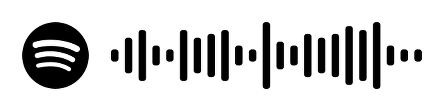
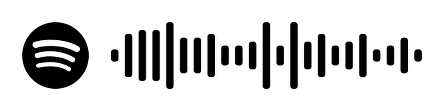
playlists now allowed

diff --git a/creator.py b/creator.py
@@ -52,6 +52,8 @@ def handleURL(url: str, params: dict[str, int] = defaultParams, saveFolder: str 
     startTime = datetime.now()
     if "album" in url:
         return createAlbumPoster(url, params, saveFolder, colors)
+    elif "playlist" in url:
+        return createPlaylistPoster(url, params, saveFolder, colors)
     else:
         return "Not a Spotify playlist or poster URL"
 
@@ -104,12 +106,40 @@ def getAlbumDetails(url: str) -> dict:
     
     # https://open.spotify.com/album/5MS3MvWHJ3lOZPLiMxzOU6?si=6GDOWf7nSnaqsDa-BbIH5Q
 
-def getTopColors() -> list[list[int]]:
+def getPlaylistDetails(url:str) -> dict:
+    playlistID = re.findall('playlist/(.*)\?', url)
+    spotify = spotipy.Spotify(client_credentials_manager=SpotifyClientCredentials())
+
+    results = spotify.playlist(playlistID[0])
+
+    totalDuration = sum([song['track']['duration_ms'] for song in results['tracks']['items']])
+
+    trackStruct : list[dict] = [
+        {
+            "href": song['track']['href'],
+            "name": song['track']['name'],
+            "id": song['track']['id'],
+            "duration": song['track']['duration_ms']
+        }
+        for song in results['tracks']['items']
+    ]
+
+    return {
+        "id": playlistID[0],
+        'name': results['name'],
+        'owner': results['owner']['display_name'],
+        'description': results['description'],
+        'length': totalDuration,
+        'coverURL': results['images'][0]['url'],
+        'tracks': trackStruct
+    }
+
+def getTopColors(sType: str = "album") -> list[list[int]]:
     
     NUM_CLUSTERS = 5
 
     # bar = Bar("Finding dominant colors ", max=4)
-    im = Image.open("album_cover.jpg")
+    im = Image.open(f"{sType}_cover.jpg")
     # bar.next()
     ar = np.asarray(im)
     shape = ar.shape
@@ -165,12 +195,12 @@ def getTopColorsAlone(url: str) -> list[list[int]]:
         # print("{0:<7}{1:<7.2f}{2:<7.2f}{3:<7.2f}{4:<7.2f}".format(i+1, sortedCodes[i][0], sortedCodes[i][1], sortedCodes[i][2], sum(sortedCodes[i])))
     return list(sortedCodes)
 
-def getAlbumCover(url: str) -> Image:
-    urllib.request.urlretrieve(url, "album_cover.jpg")
-    im = cv2.imread("album_cover.jpg")
+def getCover(url: str, sType: str = 'album') -> Image:
+    urllib.request.urlretrieve(url, f"{sType}_cover.jpg")
+    im = cv2.imread(f"{sType}_cover.jpg")
     im = cv2.resize(im, (defaultParams['coverDim'],defaultParams['coverDim']), interpolation=cv2.INTER_LANCZOS4)
-    cv2.imwrite("album_cover.jpg", im)
-    resizedCover = Image.open('album_cover.jpg')
+    cv2.imwrite(f"{sType}_cover.jpg", im)
+    resizedCover = Image.open(f"{sType}_cover.jpg")
     return resizedCover
 
 def getSpotifyCode(url: str, sType: str = 'album') -> Image:
@@ -184,11 +214,11 @@ def getSpotifyCode(url: str, sType: str = 'album') -> Image:
     code = Image.open('spotify_code.png')
     return code
 
-def getAlbumLength(trackStruct: list[dict]) -> str:
+def getLength(trackStruct: list[dict]) -> str:
     totalMS = sum(song['duration'] for song in trackStruct)
     # print("Total Album MS: ", totalMS)
     delta = timedelta(milliseconds=totalMS)
-    min = ((delta.seconds // 60)-60) if (delta.seconds // 60) >= 60 else (delta.seconds // 60)
+    min = (delta.seconds // 60)-((delta.seconds // 3600)*60) if (delta.seconds // 60) >= 60 else (delta.seconds // 60)
     sec = delta.seconds % 60
     hr = delta.seconds // 3600
     return f"{hr:02d}.{min:02d}.{sec:02d}"
@@ -201,7 +231,7 @@ def writeText(draw: ImageDraw, details: dict):
         draw.text((83,1858), f"LABEL: {details['label'].upper()}", (0,0,0), font=boldText, anchor='lt')
     else:
         draw.text((83,1858), f"LABEL: {details['label'].upper()[:defaultParams['maxLabelLength']]+'...'}", (0,0,0), font=boldText, anchor='lt')
-    draw.text((83,1894), f"ALBUM LENGTH: {getAlbumLength(details['tracks'])}", (0,0,0), font=boldText, anchor='lt')
+    draw.text((83,1894), f"ALBUM LENGTH: {getLength(details['tracks'])}", (0,0,0), font=boldText, anchor='lt')
 
     # Release Date Text
     draw.text((1250, 1858), f"RELEASED ON", (0,0,0), font=boldText, anchor='rt')
@@ -248,6 +278,93 @@ def writeText(draw: ImageDraw, details: dict):
 
         for j in range(len(parts)):
             draw.text((1250, 1435 + (j*82)), f"{parts[j]}", (0,0,0), font=titleFont, anchor='rt')
+
+def writePlaylistText(draw: ImageDraw, details: dict):
+    boldText = ImageFont.truetype('SourceSans3-ExtraBold.ttf', defaultParams['cornerTextSize'])
+    artistFont = ImageFont.truetype("AtkinsonHyperlegible-Bold.ttf", defaultParams['artistSize'])
+    titleFont = ImageFont.truetype("AtkinsonHyperlegible-Bold.ttf", defaultParams['titleSize'])
+    # if len(details['label'].upper()) <= defaultParams['maxLabelLength']:
+    #     draw.text((83,1858), f"LABEL: {details['label'].upper()}", (0,0,0), font=boldText, anchor='lt')
+    # else:
+    #     draw.text((83,1858), f"LABEL: {details['label'].upper()[:defaultParams['maxLabelLength']]+'...'}", (0,0,0), font=boldText, anchor='lt')
+    draw.text((83,1858), f"PLAYLIST LENGTH: {getLength(details['tracks'])}", (0,0,0), font=boldText, anchor='lt')
+
+    # Writing description
+
+    if len(details['description']) <= 40:
+        draw.text((1250, 1858), f"{details['description'].upper()}", (0,0,0), font=ImageFont.truetype("AtkinsonHyperlegible-Bold.ttf", 20), anchor='rt')
+    else:
+        name = details['description'].upper()
+        words : list = name.split(' ')
+        parts : list[str] = []
+        
+        build = ""
+        while len(words) > 0:
+            # print("considering ", words[0], "-->", build)
+            if len(build + " " + words[0]) <= 40:
+                if len(build) == 0:
+                    build += words[0]
+                else:
+                    build += " " + words[0]
+                words.pop(0)
+            else:
+                if build == "":
+                    parts.append(words[0])
+                    words.pop(0)
+                else:
+                    parts.append(build)
+                    build = ""
+        parts.append(build)
+        # print(parts)
+
+        for j in range(len(parts)):
+            draw.text((1250, 1858 + (j*24)), f"{parts[j]}", (0,0,0), font=ImageFont.truetype("AtkinsonHyperlegible-Bold.ttf", 20), anchor='rt')
+
+    # draw.text((1250, 1858), details['description'], (0,0,0), font=ImageFont.truetype("AtkinsonHyperlegible-Bold.ttf", 18), anchor='rt')
+    # draw.text((1250,1894), f"{details['releaseDate'].upper()}", (0,0,0), font=boldText, anchor='rt')
+
+    # Artist Font
+    if len(details['owner'].upper()) <= defaultParams['maxArtistsLength']:
+        draw.text((1250, 1370), f"{details['owner'].upper()}", (0,0,0), font=artistFont, anchor='rt')
+    else:
+        draw.text((1250, 1370), f"{details['owner'].upper()[:defaultParams['maxArtistsLength']] + '...'}", (0,0,0), font=artistFont, anchor='rt')
+
+    if defaultParams['includeFullTitle'] == 0:
+        try:
+            pIndex = details['name'].index("(")
+            details['name'] = details['name'][:pIndex]
+        except:
+            pass
+
+    if len(details['name']) <= 10:
+        draw.text((1250, 1435), f"{details['name'].upper()}", (0,0,0), font=titleFont, anchor='rt')
+    else:
+        name = details['name'].upper()
+        words : list = name.split(' ')
+        parts : list[str] = []
+        
+        build = ""
+        while len(words) > 0:
+            # print("considering ", words[0], "-->", build)
+            if len(build + " " + words[0]) <= defaultParams['maxTitleLength']+(len(parts)):
+                if len(build) == 0:
+                    build += words[0]
+                else:
+                    build += " " + words[0]
+                words.pop(0)
+            else:
+                if build == "":
+                    parts.append(words[0])
+                    words.pop(0)
+                else:
+                    parts.append(build)
+                    build = ""
+        parts.append(build)
+        # print(parts)
+
+        for j in range(len(parts)):
+            draw.text((1250, 1435 + (j*82)), f"{parts[j]}", (0,0,0), font=titleFont, anchor='rt')
+    
 
 def writeTracks(draw: ImageDraw, details: dict):
     trackFont = ImageFont.truetype("AtkinsonHyperlegible-Bold.ttf", defaultParams['trackSize'])
@@ -332,7 +449,7 @@ def createAlbumPoster(url: str, params: dict[str, int] = defaultParams, saveFold
     bar.next()
     # Getting album cover (640x640)
     bar.setStatus("Getting album cover ... ")
-    albumCover = getAlbumCover(details['coverURL'])
+    albumCover = getCover(details['coverURL'], 'album')
     canvas.paste(albumCover, (83,83))
     bar.next()
     # getting spotify code
@@ -396,3 +513,82 @@ def createAlbumPoster(url: str, params: dict[str, int] = defaultParams, saveFold
     bar.next()
     bar.finish()
     return returning
+
+def createPlaylistPoster(url: str, params: dict[str, int] = defaultParams, saveFolder: str = "", colors: list[list[int]] = None):
+    details = getPlaylistDetails(url)
+
+    global defaultParams, bar
+    defaultParams = params
+
+    # Full canvas
+    bar.setStatus("Creating canvas ... ")
+    canvas = Image.new('RGBA', (1333,2000), (255,255,255))
+    bar.next()
+    # Getting album cover (640x640)
+    bar.setStatus("Getting playlist cover ... ")
+    playCover = getCover(details['coverURL'], 'playlist')
+    canvas.paste(playCover, (83,83))
+    bar.next()
+    # getting spotify code
+    bar.setStatus("Getting spotify code ... ")
+    sCode = getSpotifyCode(url, 'playlist')
+    canvas.paste(sCode, (805,defaultParams['sCodePos']))
+    bar.next()
+
+    returning = None
+
+    # handling color squares
+    bar.setStatus("Generating colors squares ... ")
+    if colors:
+        # print("Colors passed in from database")
+        sortedRGB = sorted(colors, key=lambda triple: sum(triple))
+        # print("\n{0:<7}{1:<7}{2:<7}{3:<7}{4:<7}".format("Color", "Red", "Green", "Blue", "Brightness"))
+        # for i in range(len(sortedRGB)):
+            # print("{0:<7}{1:<7.2f}{2:<7.2f}{3:<7.2f}{4:<7.2f}".format(i+1, sortedRGB[i][0], sortedRGB[i][1], sortedRGB[i][2], sum(sortedRGB[i])))
+    else:
+        # print("No colors passed from database")
+        sortedRGB = getTopColors('playlist')
+        returning = sortedRGB
+    coords = [(1167,1270), (1056,1270), (944,1270), (833,1270), (722,1270) ]
+    for i in range(len(sortedRGB)):
+        # make square, place at correct location
+        block = Image.new("RGBA", (83,83), (int(sortedRGB[i][0]), int(sortedRGB[i][1]), int(sortedRGB[i][2])))
+        canvas.paste(block, coords[i])
+    bar.next()
+
+    # Handling Label & Album Length
+    bar.setStatus("Writing playlist info ... ")
+    draw = ImageDraw.Draw(canvas)
+    writePlaylistText(draw, details)
+    bar.next()
+
+    # Handling tracks
+    bar.setStatus("Writing playlist tracks ... ")
+    writeTracks(draw, details)
+    bar.next()
+
+    # save temporary full-size copy
+    bar.setStatus("Saving playlist poster ... ")
+    canvas.save(f"static/PosterStorage{saveFolder}/poster.png")
+    bar.next()
+    # saving permanent thumbnail copy for lesser storage use
+    bar.setStatus("Saving thumbnail copy ... ")
+    thumbnail = cv2.imread(f"static/PosterStorage{saveFolder}/poster.png")
+    thumbnail = cv2.resize(thumbnail, (500, 750), interpolation=cv2.INTER_LANCZOS4)
+    cv2.imwrite(f"static/PosterStorage{saveFolder}/{details['id']}.png", thumbnail)
+    bar.next()
+
+    # print("Returning from handleURL: ", returning)
+    bar.setStatus("Writing to data.json ... ")
+    with open(f"static/PosterStorage{saveFolder}/data.json", 'r+') as handle:
+        data: dict = json.load(handle)
+        data[details['id']] = params
+        handle.close()
+    with open(f"static/PosterStorage{saveFolder}/data.json", 'w+') as handle:
+        json.dump(data, handle)
+        handle.close()
+    bar.next()
+    bar.finish()
+    return returning
+
+    # https://open.spotify.com/playlist/37i9dQZF1DXdyjMX5o2vCq?si=eeb678ba212b4b71

diff --git a/app.py b/app.py
@@ -95,18 +95,26 @@ def urlSubmit():
         try:
             albumID = re.findall('album/(.*)\?', url)[0]
         except:
-            flash("REDInvalid Spotify album URL. Try copying the link from Spotify's share options")
-            return render_template("index.html", current_user=current_user, defaultParams = defaultParams)
+            try:
+                albumID = re.findall('playlist/(.*)\?', url)[0]
+            except:
+                print("regex fail")
+                flash("REDInvalid Spotify album URL. Try copying the link from Spotify's share options")
+                return render_template("index.html", current_user=current_user, defaultParams = defaultParams)
 
         if len(albumID) != 22:
+            print("idLength fail")
             flash("REDInvalid Spotify album URL. Try copying the link from Spotify's share options.")
             return render_template("index.html", current_user=current_user, defaultParams = defaultParams)
 
         try:
             results = spotify.album(albumID)
         except:
-            flash("REDError retrieving Spotify Album. Check URL")
-            return render_template("index.html", current_user=current_user, defaultParams = defaultParams)
+            try:
+                results = spotify.playlist(albumID)
+            except:
+                flash("REDError retrieving Spotify Album. Check URL")
+                return render_template("index.html", current_user=current_user, defaultParams = defaultParams)
         
         newParams = {}
         for field in defaultParams:
@@ -124,7 +132,7 @@ def urlSubmit():
 
         # print("Passing Parameters: ", newParams)
 
-        a = Album.query.filter_by(id = re.findall('album/(.*)\?', url)[0]).first()
+        a = Album.query.filter_by(id = albumID).first()
         if a:
             colors = [[a.r1, a.g1, a.b1],[a.r2, a.g2, a.b2],[a.r3, a.g3, a.b3],[a.r4, a.g4, a.b4],[a.r5, a.g5, a.b5]]
             handleURL(url, newParams, "/user"+str(current_user.id), colors)
@@ -135,7 +143,7 @@ def urlSubmit():
                 colors.insert(i, [255,255,255])
 
             # print("New Album detected: ", colors)
-            newAlbum = Album(id = re.findall('album/(.*)\?', url)[0], r1 = colors[0][0], 
+            newAlbum = Album(id = albumID, r1 = colors[0][0], 
                 r2=colors[1][0], r3=colors[2][0], r4=colors[3][0], r5=colors[4][0],
                 g1=colors[0][1], g2=colors[1][1], g3=colors[2][1], g4=colors[3][1], g5=colors[4][1],
                 b1=colors[0][2], b2=colors[1][2], b3=colors[2][2], b4=colors[3][2], b5=colors[4][2])
@@ -178,8 +186,13 @@ def posterHistory():
             numColumns.append(4)
             tracker -= 4
     # print("Number of columns: ", numColumns)
+    albumPlaylistNames: list[str] = []
 
-    albumNames = list(spotify.album(albumID.replace(".png",""))['name'] for albumID in posterNames)
+    for albumID in posterNames:
+        try:
+            albumPlaylistNames.append(spotify.album(albumID.replace(".png",""))['name'])
+        except:
+            albumPlaylistNames.append(spotify.playlist(albumID.replace(".png",""))['name'])
     # print(albumNames)
     return render_template("posters.html",
                            posterNames = posterNames,
@@ -187,7 +200,7 @@ def posterHistory():
                            numRows = numRows,
                            numColumns = numColumns,
                            current_user = current_user,
-                           albumNames = albumNames)
+                           albumNames = albumPlaylistNames)
 
 @app.route('/login')
 def login():
